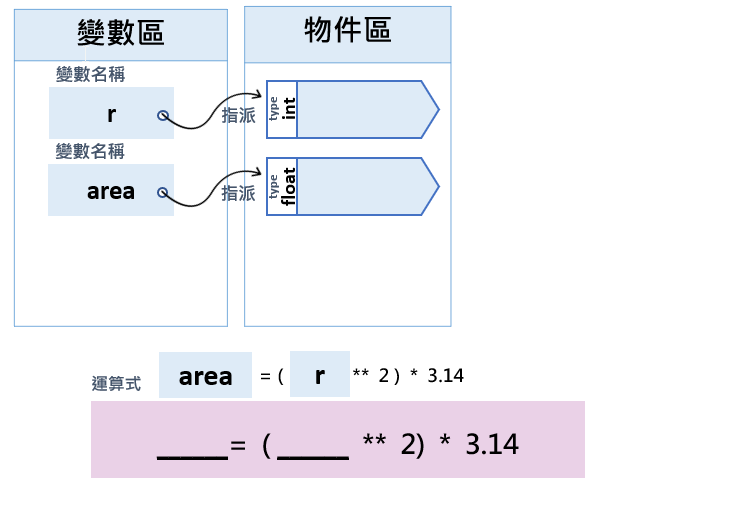
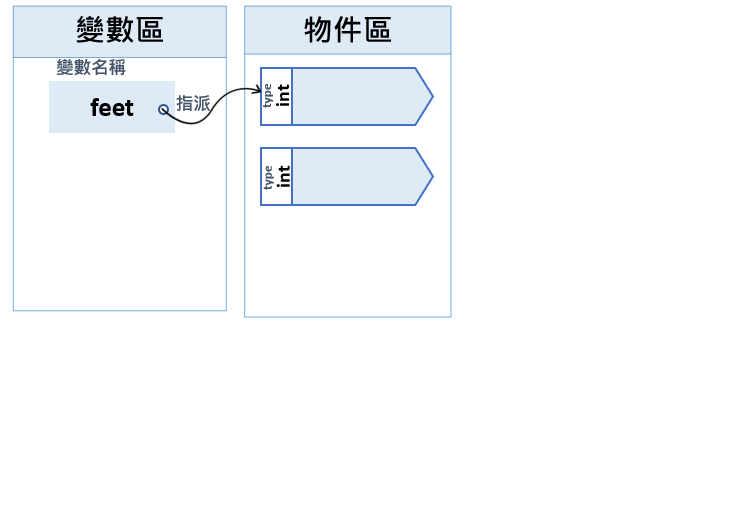
C2-8 FINISH

diff --git a/js/C2-8.js b/js/C2-8.js
@@ -1,0 +1,144 @@
+var SoloCurrentStep = 0; // 目前顯示的步驟
+var SoloInput = [];
+var SoloOutput = [0,0,0,0,0,0];
+var SoloCodeStep = 5;
+var SoloMsgStep = [0,2,3,3,4];
+var SoloArrowStep = [0,1,2,3,4];
+var SoloFlowStep = [0,1,2,3,4];
+var SoloOperationStep_SVG = [0,1,2,3,4,5,6,7,8,9,10,11,12,13,14,15,16,17,18,19,20,21,22];
+var SoloCodeStep_SVG = 23;
+var SoloMsgStep_SVG = [0,1,1,1,1,1,1,2,3,3,3,3,3,3,3,3,3,3,3,3,3,3,4];
+var SoloArrowStep_SVG = [0,0,0,0,0,0,0,1,1,1,1,1,1,1,2,2,2,3,3,3,3,3,4];
+var SoloFlowStep_SVG = [0,0,0,0,0,0,0,1,1,1,1,1,1,1,2,2,2,3,3,3,3,3,4];
+var SoloOperationInfo=[
+    [
+        ["ImgBox",10,10,600,600,"C2-8/vision/pic1.png"]
+    ],
+    [
+        ["ImgBox",10,10,600,600,"C2-8/vision/pic2.png"],
+        ["DrawText","\"{InputBox1}\"",430,195,20,"black"]
+    ],
+    [
+        ["ImgBox",10,10,600,600,"C2-8/vision/pic3.png"],
+        ["DrawText","{InputBox1}",430,195,20,"black"]
+    ],
+    [
+        ["ImgBox",10,10,600,600,"C2-8/vision/pic4.png"],
+        ["DrawText","{InputBox1}",430,195,20,"black"]
+    ],
+    [
+        ["ImgBox",10,10,600,600,"C2-8/vision/pic5.png"],
+        ["DrawText","{InputBox1}",270,185,20,"black"]
+    ],
+    [
+        ["ImgBox",10,10,600,600,"C2-8/vision/pic6.png"],
+        ["DrawText","{InputBox1}",270,185,20,"black"]
+    ],
+    [
+        ["ImgBox",10,10,600,600,"C2-8/vision/pic7.png"],
+        ["DrawText","{InputBox1}",270,185,20,"black"]
+    ],
+    [
+        ["ImgBox",10,10,600,600,"C2-8/vision/pic8.png"],
+        ["DrawText","{InputBox1}",270,185,20,"black"]
+    ],
+    [
+        ["ImgBox",10,10,600,600,"C2-8/vision/pic9.png"],
+        ["DrawText","{InputBox1}",270,185,20,"black"],
+        ["DrawText","\"{InputBox2}\"",430,260,20,"black"]
+    ],
+    [
+        ["ImgBox",10,10,600,600,"C2-8/vision/pic10.png"],
+        ["DrawText","{InputBox1}",270,185,20,"black"],
+        ["DrawText","{InputBox2}",430,260,20,"black"]
+    ],
+    [
+        ["ImgBox",10,10,600,600,"C2-8/vision/pic11.png"],
+        ["DrawText","{InputBox1}",270,185,20,"black"],
+        ["DrawText","{InputBox2}",430,260,20,"black"]
+    ],
+    [
+        ["ImgBox",10,10,600,600,"C2-8/vision/pic12.png"],
+        ["DrawText","{InputBox1}",270,185,20,"black"],
+        ["DrawText","{InputBox2}",270,250,20,"black"]
+    ],
+    [
+        ["ImgBox",10,10,600,600,"C2-8/vision/pic13.png"],
+        ["DrawText","{InputBox1}",270,185,20,"black"],
+        ["DrawText","{InputBox2}",270,250,20,"black"]
+    ],
+    [
+        ["ImgBox",10,10,600,600,"C2-8/vision/pic14.png"],
+        ["DrawText","{InputBox1}",270,185,20,"black"],
+        ["DrawText","{InputBox2}",270,250,20,"black"]
+    ],
+    [
+        ["ImgBox",10,10,600,600,"C2-8/vision/pic15.png"],
+        ["DrawText","{InputBox1}",270,185,20,"black"],
+        ["DrawText","{InputBox2}",270,250,20,"black"]
+    ],
+    [
+        ["ImgBox",10,10,600,600,"C2-8/vision/pic16.png"],
+        ["DrawText","{InputBox1}",270,185,20,"black"],
+        ["DrawText","{InputBox2}",270,250,20,"black"],
+        ["DrawText","{InputBox1}",250,485,20,"black"]
+    ],
+    [
+        ["ImgBox",10,10,600,600,"C2-8/vision/pic17.png"],
+        ["DrawText","{Output1}",270,185,20,"black"],
+        ["DrawText","{InputBox2}",270,250,20,"black"],
+        ["DrawText","{InputBox1}",250,485,20,"black"],
+        ["DrawText","{Output1}",160,485,20,"black"]
+    ],
+    [
+        ["ImgBox",10,10,600,600,"C2-8/vision/pic18.png"],
+        ["DrawText","{Output1}",270,185,20,"black"],
+        ["DrawText","{InputBox2}",270,250,20,"black"]
+    ],
+    [
+        ["ImgBox",10,10,600,600,"C2-8/vision/pic19.png"],
+        ["DrawText","{Output1}",270,185,20,"black"],
+        ["DrawText","{InputBox2}",270,250,20,"black"],
+        ["DrawText","{InputBox2}",260,485,20,"black"],
+        ["DrawText","{Output1}",210,485,20,"black"]
+    ],
+    [
+        ["ImgBox",10,10,600,600,"C2-8/vision/pic20.png"],
+        ["DrawText","{Output1}",270,185,20,"black"],
+        ["DrawText","{InputBox2}",270,250,20,"black"],
+        ["DrawText","{InputBox2}",260,485,20,"black"],
+        ["DrawText","{Output1}",210,485,20,"black"],
+        ["DrawText","{Output3}",110,485,20,"black"],
+        ["DrawText","{Output3}",260,320,20,"black"]
+    ],
+    [
+        ["ImgBox",10,10,600,600,"C2-8/vision/pic21.png"],
+        ["DrawText","{Output1}",270,185,20,"black"],
+        ["DrawText","{InputBox2}",270,250,20,"black"],
+        ["DrawText","{InputBox2}",260,485,20,"black"],
+        ["DrawText","{Output1}",210,485,20,"black"],
+        ["DrawText","{Output3}",110,485,20,"black"],
+        ["DrawText","{Output3}",260,320,20,"black"]
+    ],
+    [
+        ["ImgBox",10,10,600,600,"C2-8/vision/pic22.png"],
+        ["DrawText","{Output1}",270,185,20,"black"],
+        ["DrawText","{InputBox2}",270,250,20,"black"],
+        ["DrawText","{InputBox2}",260,485,20,"black"],
+        ["DrawText","{Output1}",210,485,20,"black"],
+        ["DrawText","{Output3}",110,485,20,"black"],
+        ["DrawText","{Output3}",260,320,20,"black"]
+    ],
+    [
+        ["ImgBox",10,10,600,600,"C2-8/vision/pic23.png"],
+        ["DrawText","{Output3} 公分",230,280,16,"white"]
+    ]
+];
+function SetSolodata(){
+    SoloOutput[1]=Number(SoloInput[1])*12;
+    SoloOutput[2]=String((SoloOutput[1]+Number(SoloInput[2]))*2.54);
+    SoloOutput[3]=(SoloOutput[1]+Number(SoloInput[2]))*2.54;
+    if(SoloOutput[2].length>6){
+        SoloOutput[3]=String(((SoloOutput[1]+Number(SoloInput[2]))*2.54).toFixed(2))+"...";
+    }
+}
